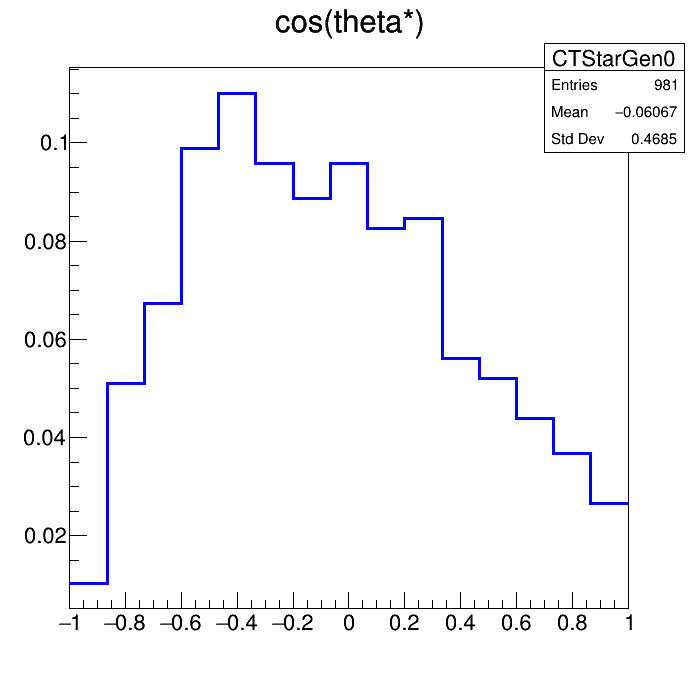
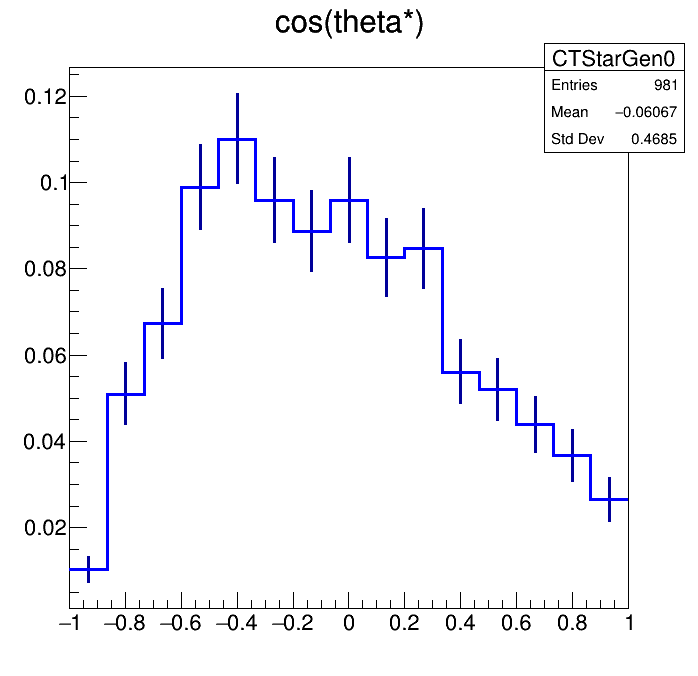
Add error bars to delphes figures

diff --git a/TTbarAnalysis/TTbarAnalysis.C b/TTbarAnalysis/TTbarAnalysis.C
@@ -431,7 +431,7 @@ void TTbarAnalysis::Terminate() {
   double F0 = -(1.0+beta)/(1.0-beta) + (Aplus - Aminus)/(3.0*beta*(1.0-beta));
   int N1 = NTotal - Nzminus;
   int N3 = Nzplus;
-  int N2 = N1 - N3;
+  int N2 = NTotal - N1 - N3;
   printf("Value of Fr %g\n", Fr);
   printf("Value of Fl %g\n", Fl);
   printf("Value of F0 %g\n", F0);
